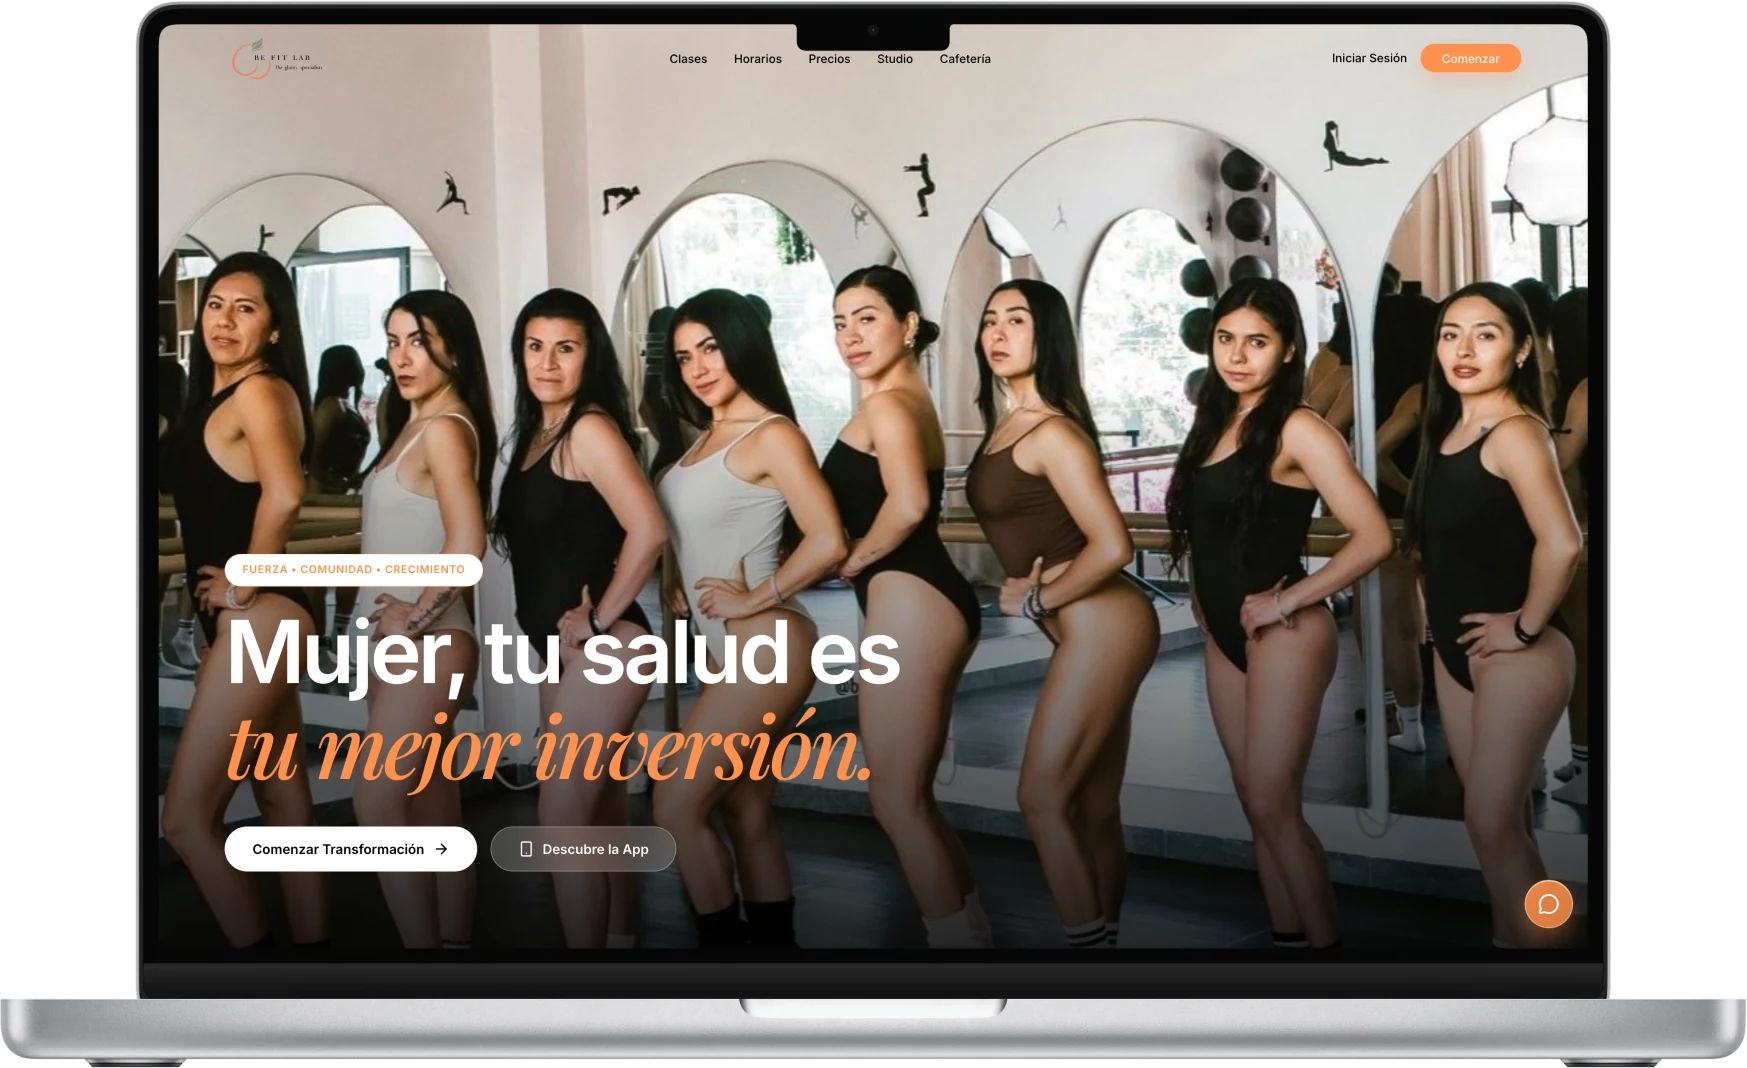
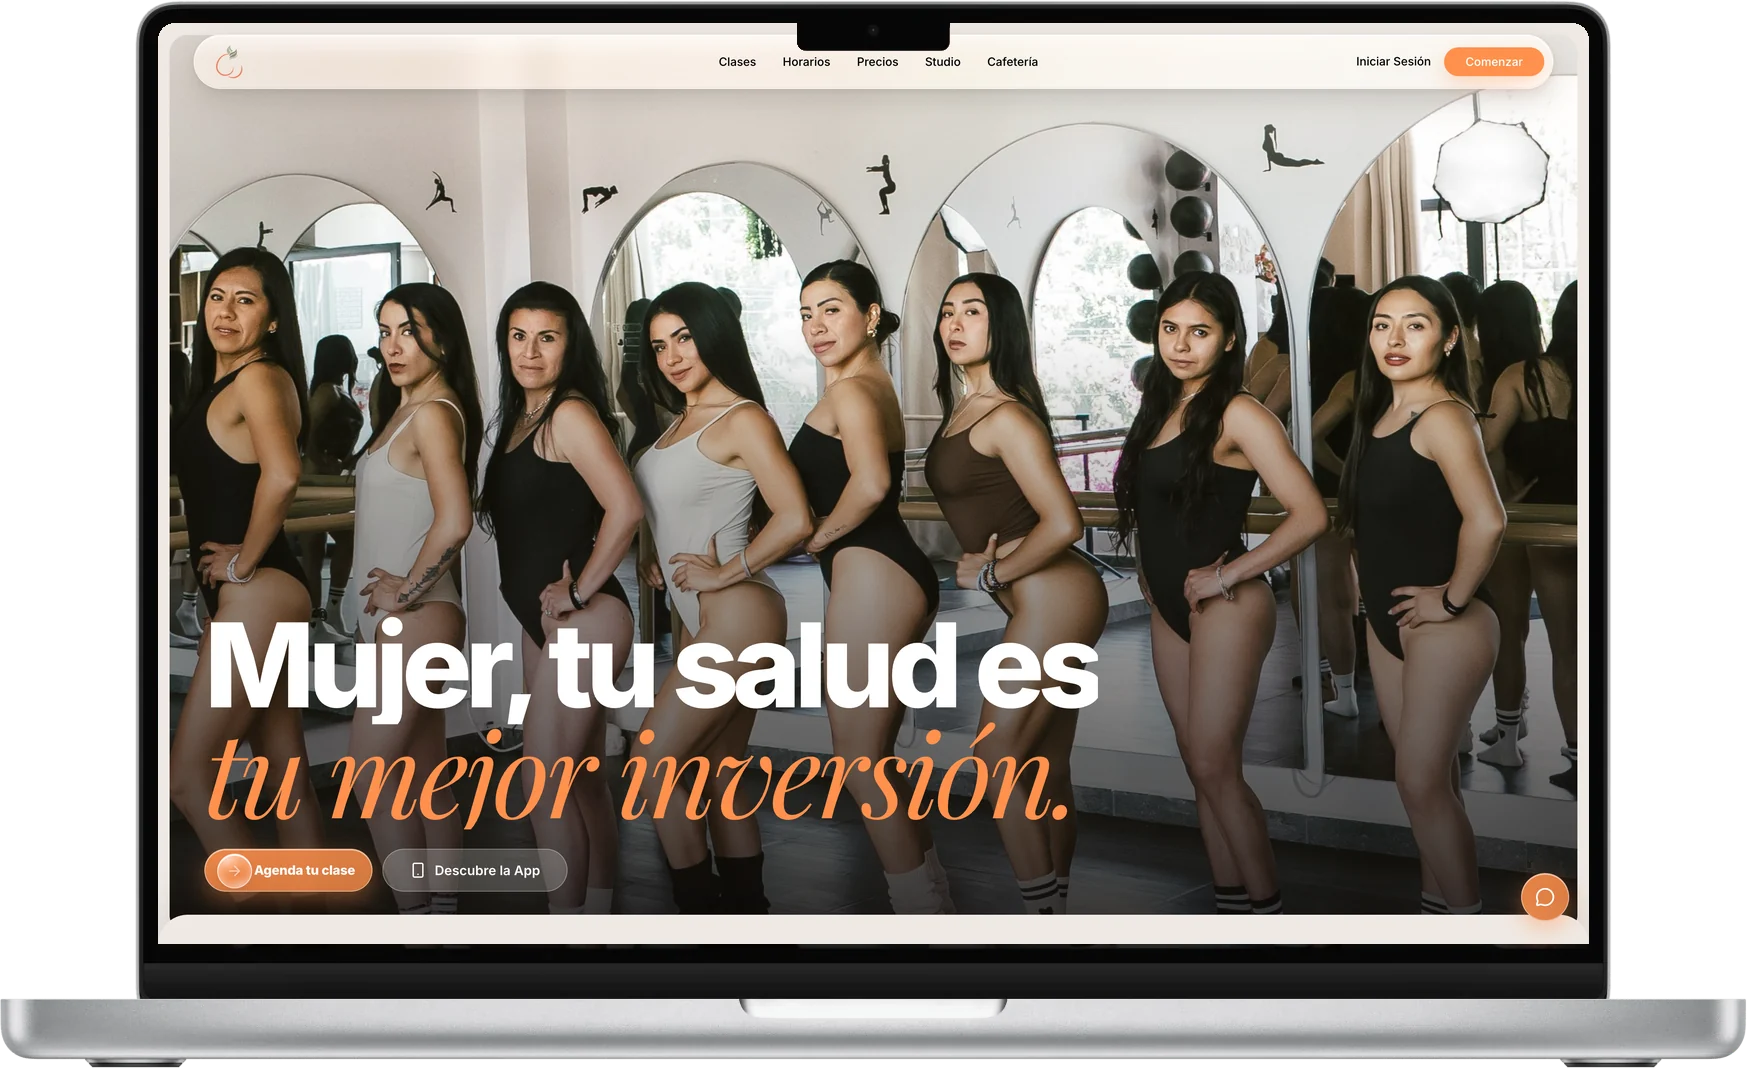
Proyectos: Somos Natural como caso real y Be Fit Lab con su sitio actual
- Natural primero en la lista (sitio web), con textos en español e inglés
- MacBook de Natural y de Be Fit Lab con capturas actuales en el mismo marco

diff --git a/src/data/projects.js b/src/data/projects.js
@@ -18,6 +18,35 @@
 
 const allProjects = [
   {
+    // 13-nov-2026: primer caso SOLO SITIO WEB. Es una vitrina, no una tienda: el pedido
+    // se arma en la página y se manda por WhatsApp. Sin testimonio todavía (ver CLAUDE.md).
+    id: 'natural',
+    category: 'Sitio Web & Marca',
+    title: 'Somos Natural',
+    tagline: 'Catorce aguas de sabor, cada una con su propio mundo.',
+    description:
+      'Sitio web inmersivo para una marca poblana de aguas de sabor: botella 3D que acompaña el recorrido, un mundo ilustrado por cada sabor, identidad visual renovada y pedidos armados directo a WhatsApp.',
+    result:
+      'Los 14 sabores, cómo se hacen y dónde comprarlos, en un sitio propio con la identidad renovada de la marca y un pedido que llega armado a su WhatsApp.',
+    tags: ['Three.js', 'Vite', 'Ilustración vectorial', 'Cloudflare'],
+    type: 'desktop',
+    slides: ['/screenshots/natural-web.webp'],
+    glow: '140, 102, 187',
+    accent: '#8C66BB',
+    website: 'https://somos-natural.pages.dev',
+    platforms: ['Web'],
+    heroImage: null,
+    // Sin `app`: es solo sitio web. `natural-mac.webp` = captura pegada en el MISMO
+    // marco de MacBook que Be Fit Lab (pantalla x158–1589, y23–944, muesca respetada).
+    mockups: {
+      web: {
+        src: '/mockups/natural-mac.webp',
+        fallback: '/screenshots/natural-web.webp',
+        caption: 'Cada sabor cambia el mundo entero: fondo, flores y la gotita de la marca.',
+      },
+    },
+  },
+  {
     id: 'befit',
     category: 'Fitness & Wellness',
     title: 'Be Fit Lab',
@@ -535,7 +564,7 @@ const allProjects = [
 // (mejor pocos y fuertes que muchos a medias → más eficaz para convertir).
 // Para volver a mostrar uno, agrega su id a esta lista (en el orden deseado).
 // Archivados por ahora: 'carperfit', 'dental', 'santuario'.
-const VISIBLES = ['befit', 'pos', 'boda'];
+const VISIBLES = ['natural', 'befit', 'pos', 'boda'];
 
 export const projects = VISIBLES
   .map((id) => allProjects.find((p) => p.id === id))
@@ -549,6 +578,17 @@ export const allProjectsCatalog = allProjects;
    se queda en español (nombres propios, tecnologías). `walkthrough` no se
    renderiza, por eso no se traduce. */
 const EN = {
+  natural: {
+    category: 'Website & Brand',
+    tagline: 'Fourteen flavored waters, each with its own world.',
+    description:
+      'Immersive website for a flavored-water brand from Puebla: a 3D bottle that travels with the page, an illustrated world for every flavor, a refreshed visual identity and orders sent straight to WhatsApp.',
+    result:
+      'All 14 flavors, how they are made and where to buy them, on its own site with the brand’s refreshed identity and an order that arrives ready on their WhatsApp.',
+    captions: {
+      web: 'Every flavor changes the whole world: background, flowers and the brand’s little drop.',
+    },
+  },
   befit: {
     tagline: 'The pilates studio, in your clients’ pockets.',
     description:
